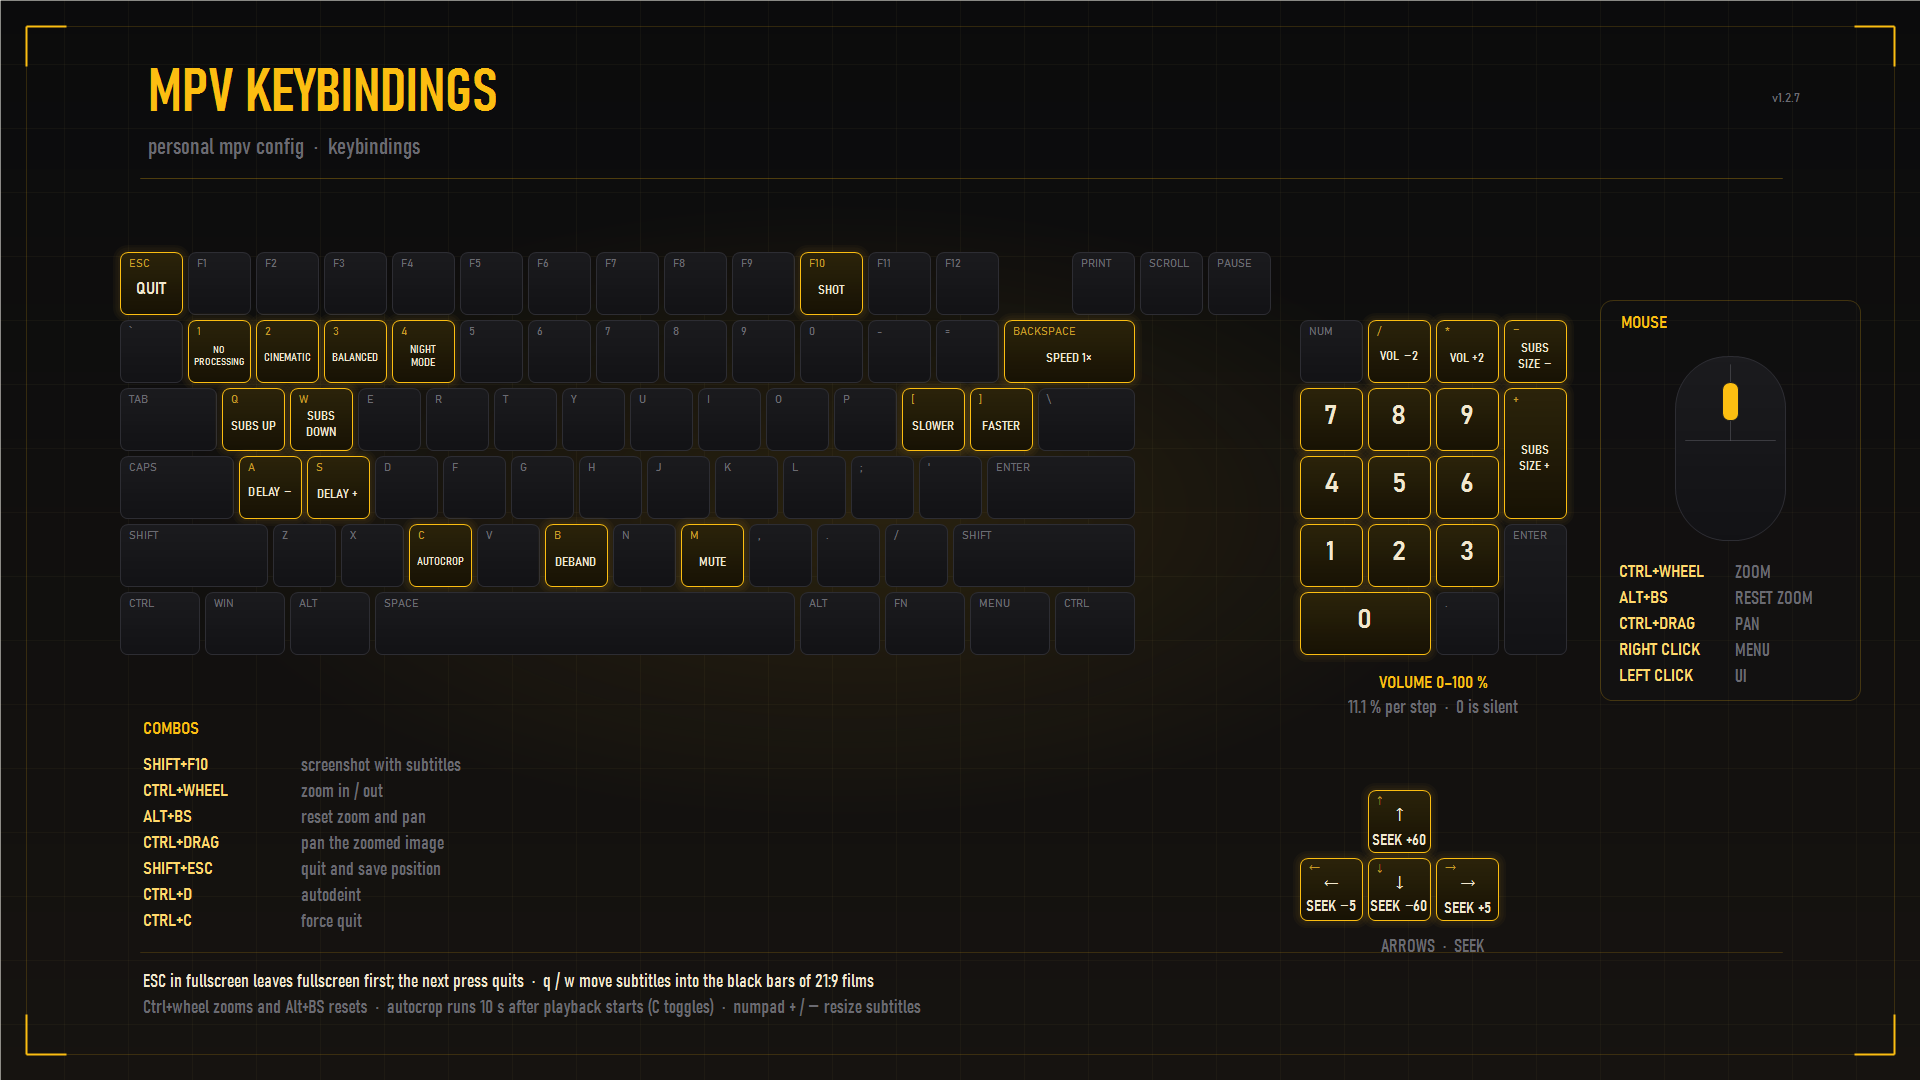
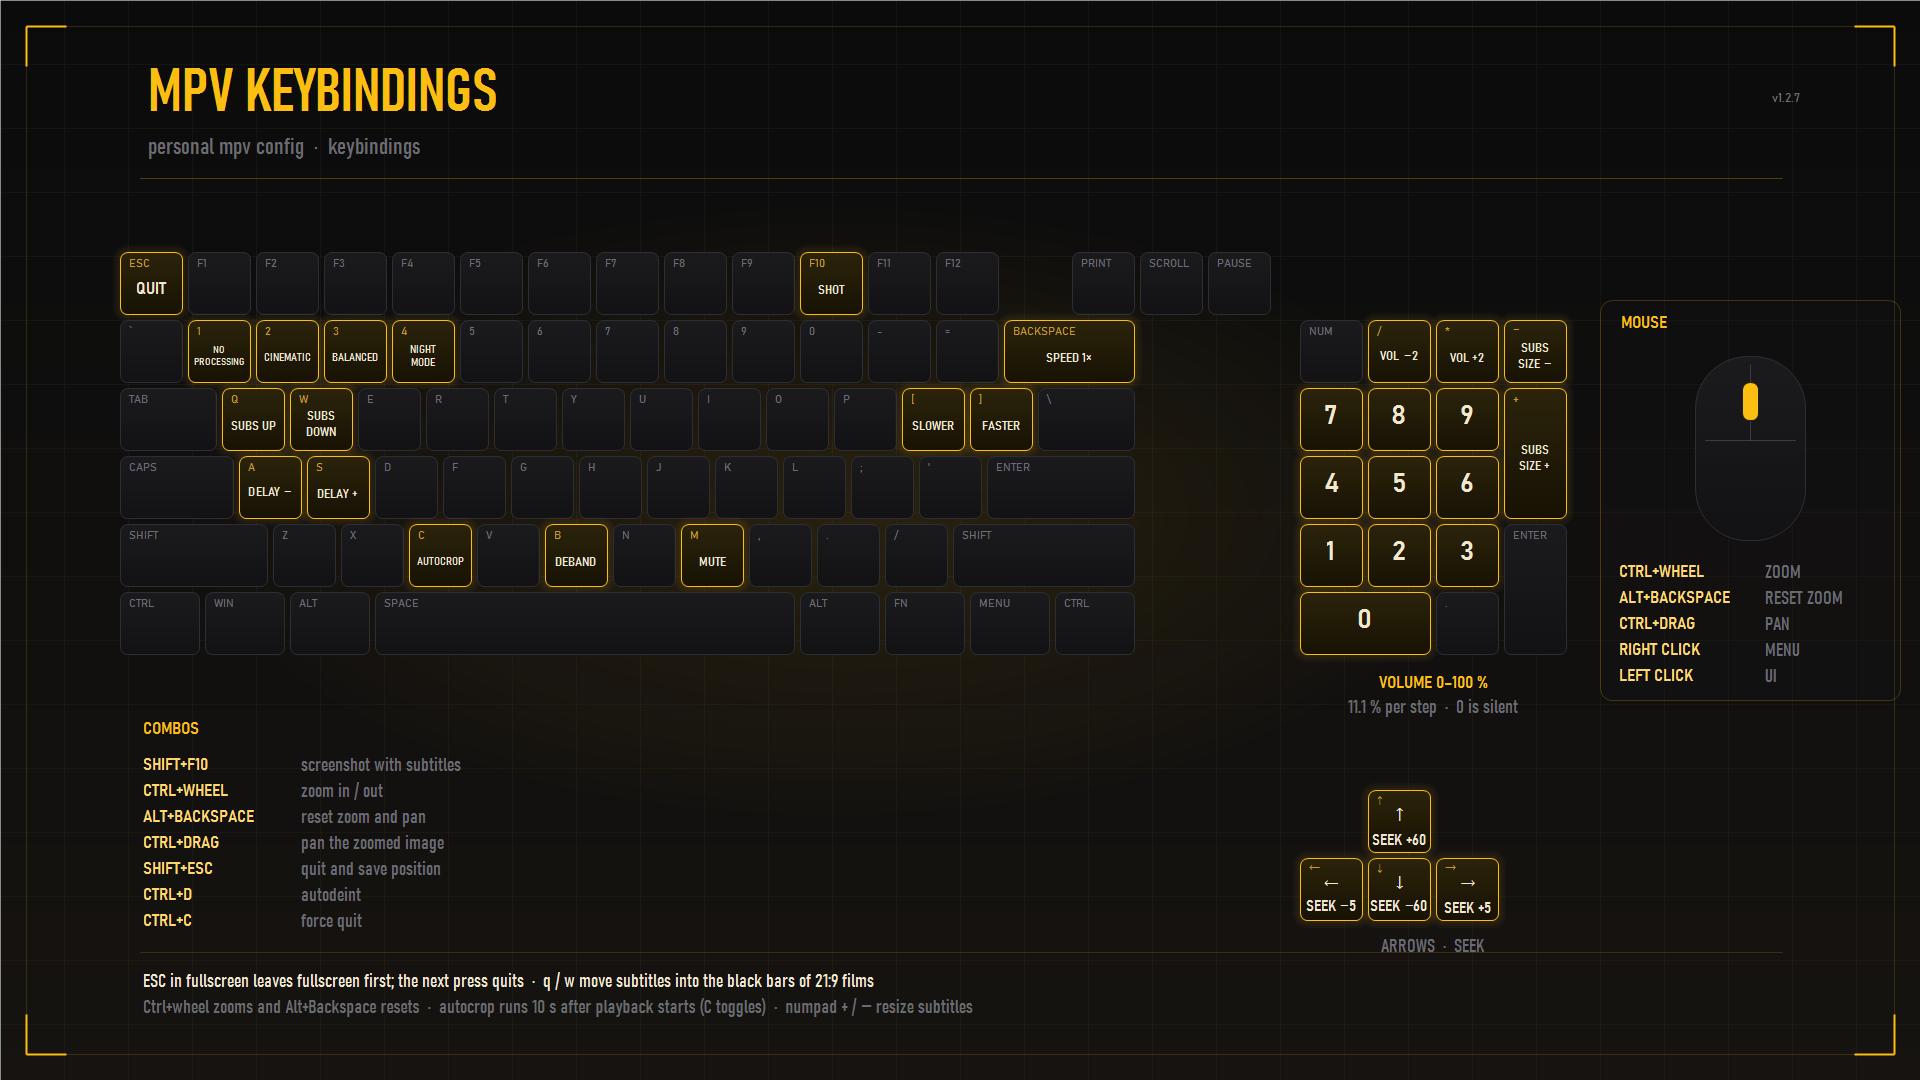
docs: keep ARGB shadow and spell out Backspace
mpv reads subtitle colors as ARGB, so the shadow stays #33000000 and the docs label it as 20% black. The keyboard map now writes ALT+BACKSPACE instead of the internal ALT+BS and widens the mouse panel to fit the full label.

diff --git a/assets/banner.py b/assets/banner.py
@@ -174,7 +174,7 @@ def design(path, version):
     swatches = (
         ("FILL", "#FCBE11", (252, 190, 17, 255)),
         ("OUTLINE", "#1F1F1F \u00b7 1.5", (31, 31, 31, 255)),
-        ("SHADOW", "#33000000 \u00b7 1 px", (0, 0, 0, 51)),
+        ("SHADOW", "#33000000 \u00b7 ARGB \u00b7 1 px", (0, 0, 0, 51)),
         ("TYPE", "SIZE 40 \u00b7 SPACING 0.5", None),
     )
     x = 140

diff --git a/AGENTS.md b/AGENTS.md
@@ -79,7 +79,7 @@ is enabled (`volume=right` in the local `uosc.conf`).
 
 - Merriweather Bold 700 from `fonts/`, loaded via `~~/fonts`; no installation.
 - Amber `#FCBE11`, outline `#1F1F1F` at 1.5, size 40, spacing 0.5, shadow
-  `#33000000` at 1 px. Styling is forced over every track, including ASS signs.
+  `#33000000` (ARGB, 20 % black) at 1 px. Styling is forced over every track, including ASS signs.
 - `blend-subtitles=no` is required so subtitles can enter the letterbox bars;
   `sub-use-margins=yes` and `sub-ass-force-margins=yes` are already set.
   `sub-pos` runs 0–150; 100 is normal, ~100–106 reaches the bottom bar.
@@ -132,11 +132,12 @@ is enabled (`volume=right` in the local `uosc.conf`).
 - Style: SQUAD-like tactical HUD, charcoal background, faint grid, amber
   `#FCBE11` glow on active keys, condensed sans labels, 1920×1080.
 - The right side carries a mouse panel: wheel highlighted for
-  `CTRL+WHEEL = ZOOM`, plus `ALT+BS = RESET ZOOM`, `CTRL+DRAG = PAN`,
+  `CTRL+WHEEL = ZOOM`, plus `ALT+BACKSPACE = RESET ZOOM`, `CTRL+DRAG = PAN`,
   `RIGHT CLICK = MENU` and `LEFT CLICK = UI`.
 - Labels are English and describe the keybindings exactly. Modifier actions are
   written as combinations (`SHIFT+F10`, `CTRL+WHEEL`, `SHIFT+ESC`); never put a
-  combo action on the bare modifier key alone.
+  combo action on the bare modifier key alone. Spell out `BACKSPACE`; `BS` is
+  only mpv's internal key name.
 - For any other text-heavy image, draw it instead of generating it: exact
   text matters more than style.
 - The README banners — `banner.png`, `design.png`, `audio.png`,

diff --git a/README.md b/README.md
@@ -17,7 +17,7 @@ Clean scaling on any screen — SDR, HDR, standard or high DPI — amber subtitl
 
 ![Subtitle specimen: amber Merriweather over charcoal, with fill, outline, shadow and type tokens](assets/design.png)
 
-Subtitle style: fill `#FCBE11` · outline `#1F1F1F` at 1.5 · size 40 · spacing 0.5 · shadow `#33000000` at 1 px.
+Subtitle style: fill `#FCBE11` · outline `#1F1F1F` at 1.5 · size 40 · spacing 0.5 · shadow `#33000000` (ARGB, 20 % black) at 1 px.
 
 ## What's inside
 
